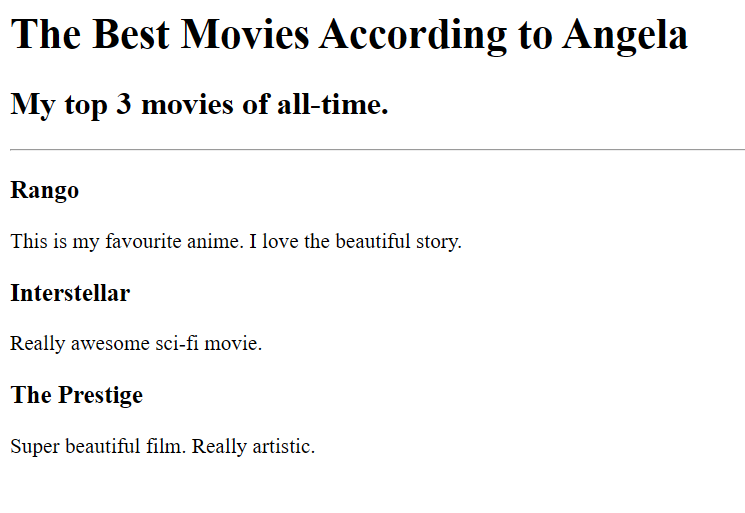
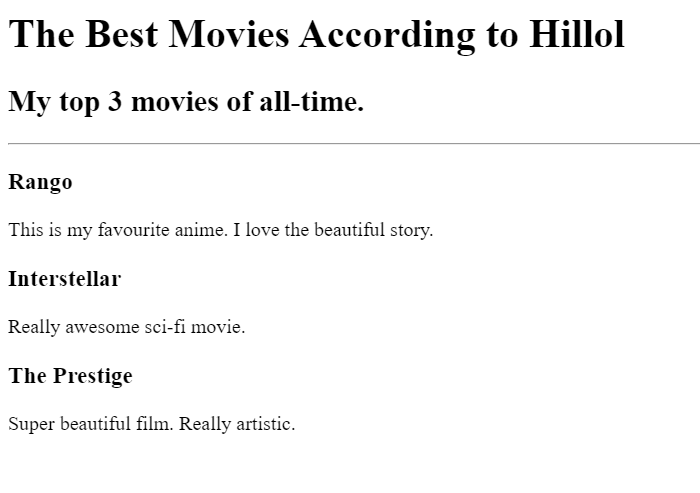
Add files via upload

diff --git a/public/movie-ranking.html b/public/movie-ranking.html
@@ -1,4 +1,4 @@
-<h1>The Best Movies According to Angela</h1>
+<h1>The Best Movies According to Hillol</h1>
 <h2>My top 3 movies of all-time.</h2>
 <hr />
 <h3>Rango</h3>
